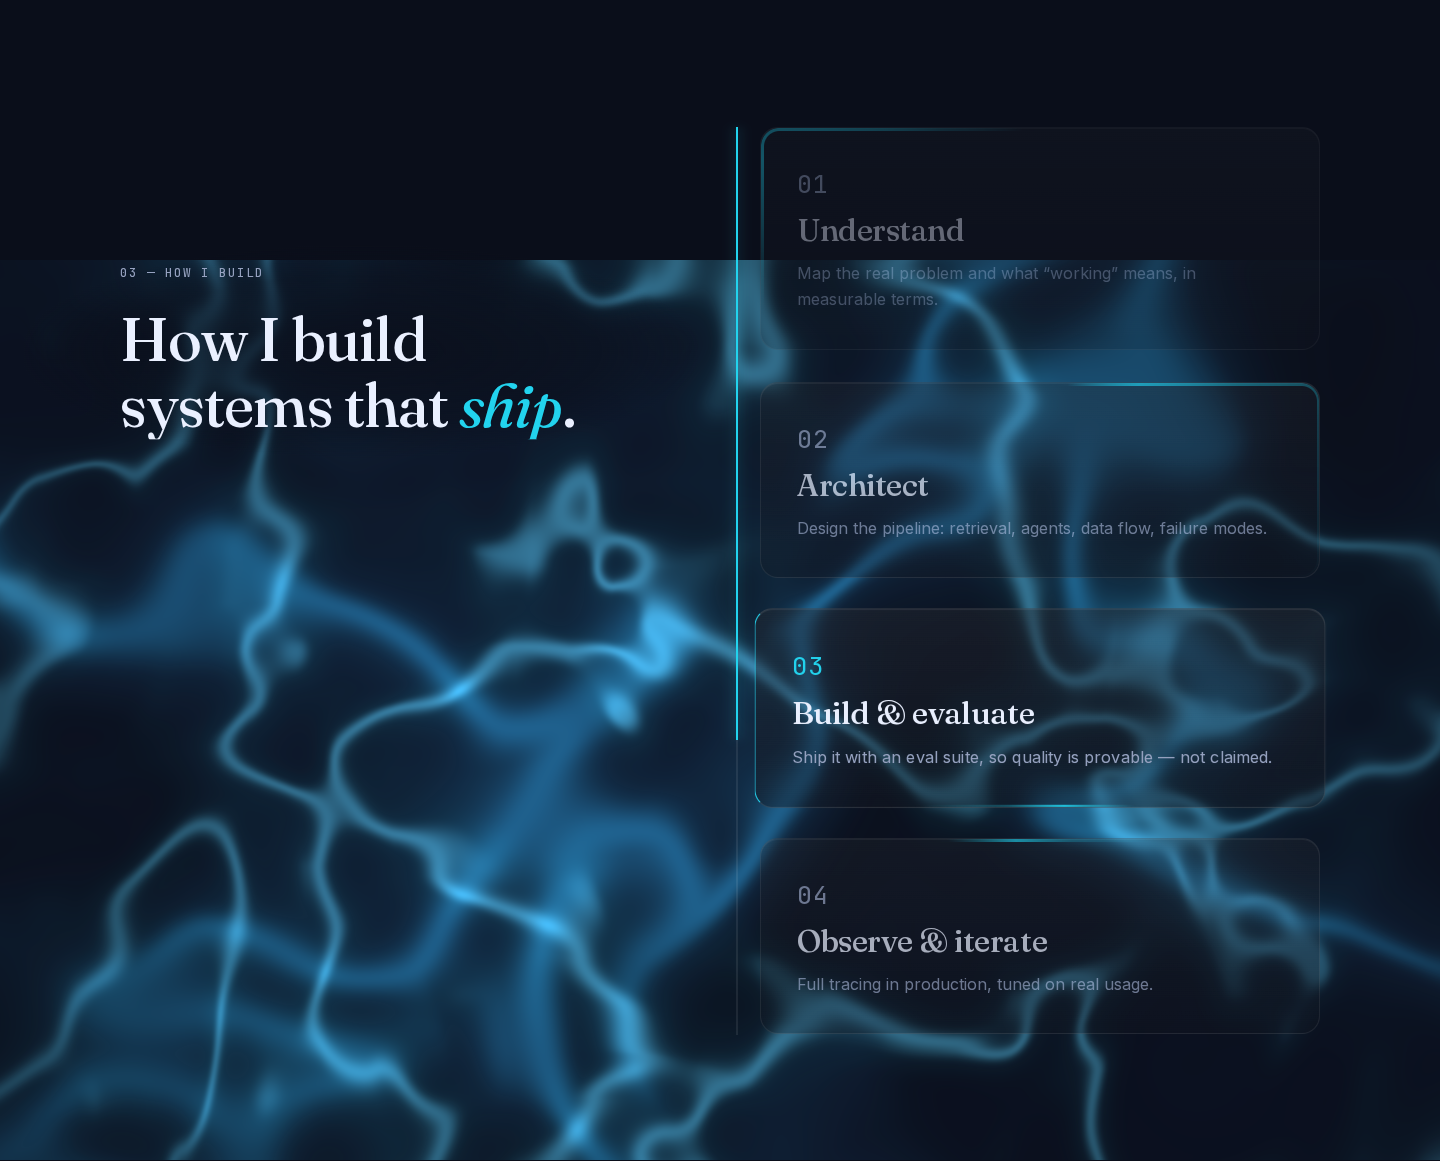
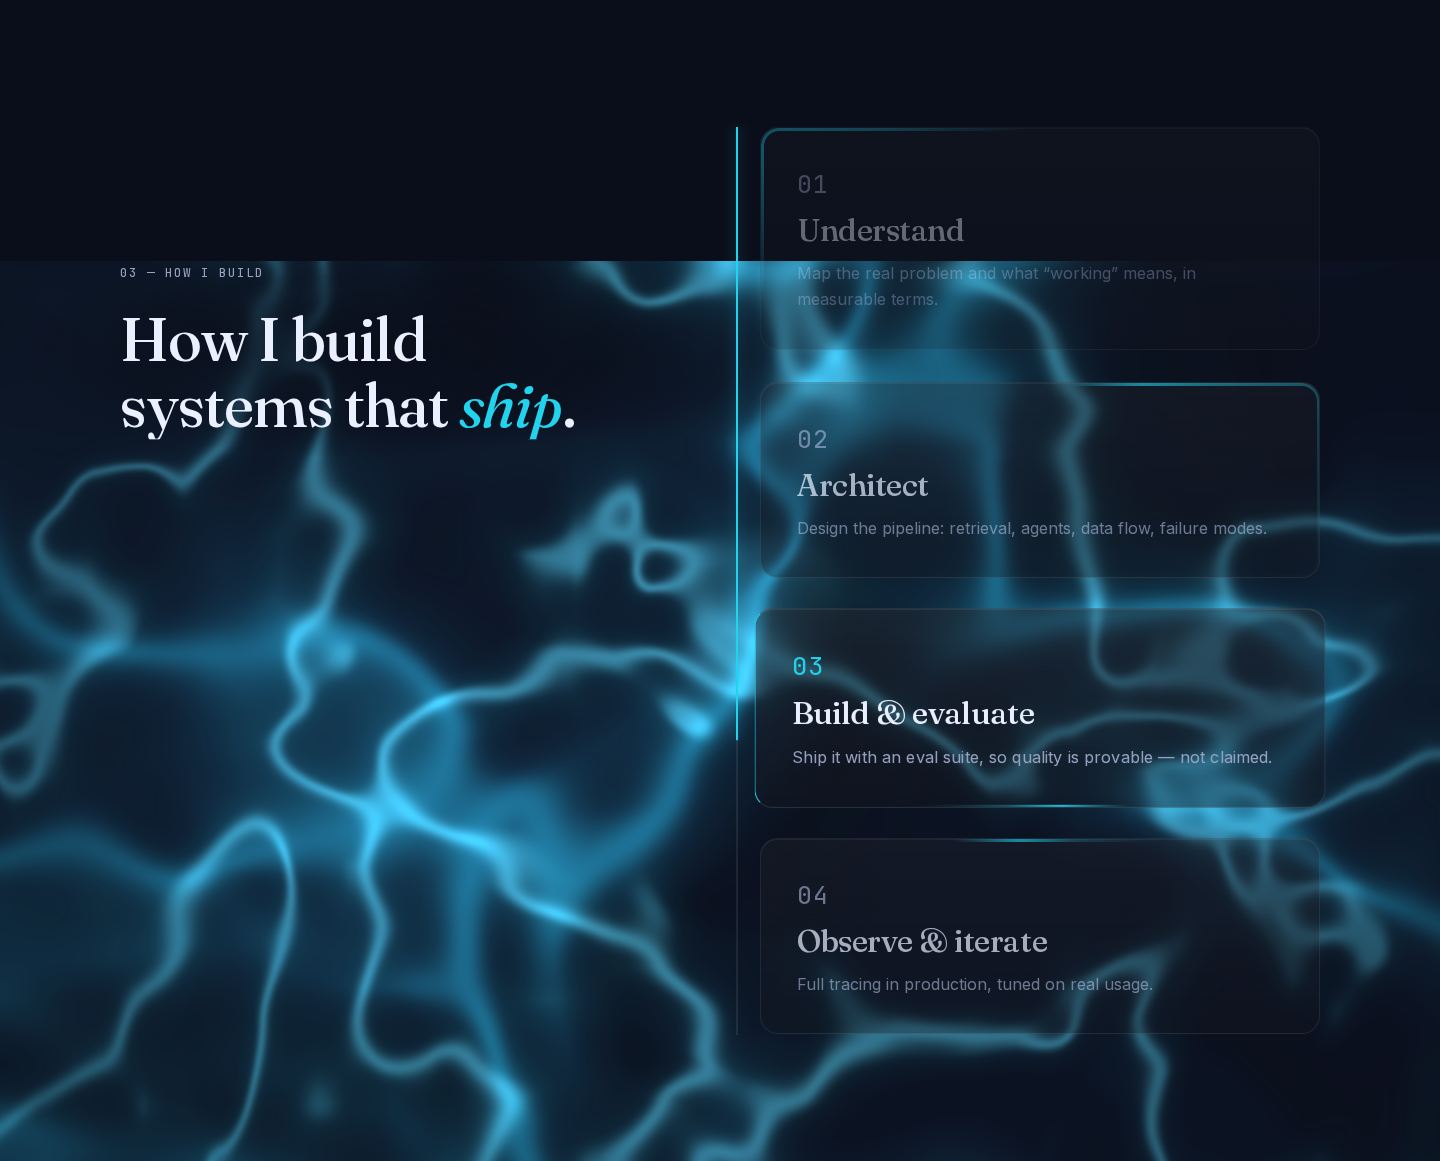
feat(portfolio-dark): content-reactive ferrofluid — events drive the shader
The fluid now REACTS to content on top of its per-section scroll mood,
via a tiny module-level bus (fluidBus) that components pulse and the
shader reads each frame as a transient boost, decayed toward rest (0.92
/frame ≈ 0.4s settle). One shader, no particles, no 2nd system — perf
work preserved (30fps cap, hidden-pause, faked glass all intact).

Reactive sources (all verified via the boost values over time):
- PROOF: the count-up drives the pulse — its gsap onUpdate pulses cyan +
  brightness + energy proportional to count progress, so the fluid
  brightens in sync as the numbers tick and settles when they stop
  (measured cyan boost 0 → 0.55 peak → 0.39 settling).
- WORK: each card's onEnter nudges turbulence + brightness with a
  direction that follows the card's slide side — moving between systems
  (turb spike 0.34 → decays).
- HOW I BUILD: a step activating sends a directional pulse (sign follows
  scroll direction) through the warp (dir 0.46 → 0.7 on step change).
- HERO / STACK / ABOUT / CONTACT: carried by the existing eased
  per-section moods (calm → churn → warm settle → bright cyan).

New uDir uniform advects the domain warp for the directional pulses.
Base moods still ease continuously and reverse cleanly on scroll-up.
prefers-reduced-motion: static rich frame, no bus reads, no reactive
morph (verified 0 errors, debug hook removed).

Verified: reactivity measured on all three sources, all 7 sections
[…]

diff --git a/src/components/portfolio-dark/Ferrofluid.tsx b/src/components/portfolio-dark/Ferrofluid.tsx
@@ -1,6 +1,7 @@
 "use client";
 
 import { useEffect, useRef } from "react";
+import { fluidBus } from "@/lib/fluidBus";
 
 /**
  * Ferrofluid ambient background — THE one site-wide layer behind all
@@ -31,6 +32,7 @@ uniform float uCyan;   /* cyan mix in the tendrils (glow warmth) */
 uniform float uTurb;   /* domain-warp amount — churn / chaos */
 uniform float uWarm;   /* shift toward indigo for the About settle */
 uniform float uBright; /* overall intensity */
+uniform float uDir;    /* transient directional advection (event pulse) */
 
 float hash(vec2 p) { return fract(sin(dot(p, vec2(127.1, 311.7))) * 43758.5453); }
 
@@ -63,8 +65,10 @@ void main() {
 
   float t = uTime * 0.05; // continuous, slow (flow SPEED eased in JS via uTime)
 
-  // domain warp — the "magnetic" flow; uTurb drives churn per section
+  // domain warp — the "magnetic" flow; uTurb drives churn per section,
+  // uDir sends a transient directional shove (How-I-Build step activation)
   vec2 warp = vec2(fbm(p + vec2(0.0, 3.7), t), fbm(p + vec2(5.2, 1.3), t * 0.85)) * uTurb;
+  warp += uDir * vec2(0.6, -0.35);
 
   vec3 blue = vec3(0.231, 0.51, 0.965);   /* --accent-2 #3B82F6 */
   vec3 cyan = vec3(0.133, 0.827, 0.933);  /* --accent   #22D3EE */
@@ -174,6 +178,7 @@ export default function Ferrofluid() {
     const uTurb = gl.getUniformLocation(prog, "uTurb");
     const uWarm = gl.getUniformLocation(prog, "uWarm");
     const uBright = gl.getUniformLocation(prog, "uBright");
+    const uDir = gl.getUniformLocation(prog, "uDir");
 
     // Mobile matches desktop richness: full 3-tier detail + near-equal
     // intensity. Affordable because the phone canvas has ~4x fewer pixels
@@ -267,12 +272,19 @@ export default function Ferrofluid() {
       const breath = 0.12 * Math.sin(timeSec * 0.13) + 0.06 * Math.sin(timeSec * 0.041);
       phase += dt * mood[0] * (1.0 + breath);
 
+      // event boosts (count-up / card-enter / step-activate) ride ON TOP of
+      // the base mood, then decay toward rest so each pulse spikes + settles
+      const boost = fluidBus.read();
+      // flow speed also gets a small lift from turbulence pulses (feels alive)
+      phase += dt * boost.turb * 0.35;
       gl.uniform1f(uScroll, scrollCurrent);
-      gl.uniform1f(uCyan, mood[1]);
-      gl.uniform1f(uTurb, mood[2]);
+      gl.uniform1f(uCyan, Math.min(1.5, mood[1] + boost.cyan));
+      gl.uniform1f(uTurb, mood[2] + boost.turb);
       gl.uniform1f(uWarm, mood[3]);
-      gl.uniform1f(uBright, mood[4]);
+      gl.uniform1f(uBright, mood[4] + boost.bright);
+      gl.uniform1f(uDir, boost.dir);
       gl.uniform1f(uTime, phase);
+      fluidBus.decay(0.92); // ~0.4s settle at 30fps
       gl.clearColor(0, 0, 0, 0);
       gl.clear(gl.COLOR_BUFFER_BIT);
       gl.drawArrays(gl.TRIANGLES, 0, 3);
@@ -286,6 +298,7 @@ export default function Ferrofluid() {
       gl.uniform1f(uTurb, 1.0);
       gl.uniform1f(uWarm, 0.0);
       gl.uniform1f(uBright, 1.1);
+      gl.uniform1f(uDir, 0.0);
       gl.uniform1f(uTime, 40);
       gl.clearColor(0, 0, 0, 0);
       gl.clear(gl.COLOR_BUFFER_BIT);

diff --git a/src/lib/fluidBus.ts b/src/lib/fluidBus.ts
@@ -1,0 +1,42 @@
+/**
+ * fluidBus — a tiny decoupled channel so content can make the ferrofluid
+ * REACT to events (count-ups, card entrances, step activations) on top of
+ * its per-section scroll mood. Ferrofluid reads these transient boosts each
+ * frame, adds them over the base mood, then decays them toward 0 — so a
+ * pulse spikes and settles. Module-level (no DOM events / no React re-render)
+ * to stay off the render path and within the perf budget.
+ *
+ * Semantics: pulse() sets each channel to the MAX of its current and the new
+ * value. A one-off nudge therefore spikes then decays; a repeated call during
+ * an animation (e.g. count-up onUpdate) keeps the channel topped up so the
+ * fluid RAMPS with the animation and settles when it stops.
+ */
+export type FluidPulse = {
+  cyan?: number; // extra cyan intensity
+  turb?: number; // extra turbulence / churn
+  bright?: number; // extra brightness
+  dir?: number; // directional advection impulse (signed)
+};
+
+const boost = { cyan: 0, turb: 0, bright: 0, dir: 0 };
+
+export const fluidBus = {
+  pulse(p: FluidPulse) {
+    if (p.cyan) boost.cyan = Math.max(boost.cyan, p.cyan);
+    if (p.turb) boost.turb = Math.max(boost.turb, p.turb);
+    if (p.bright) boost.bright = Math.max(boost.bright, p.bright);
+    // direction keeps its sign, largest magnitude wins
+    if (p.dir && Math.abs(p.dir) > Math.abs(boost.dir)) boost.dir = p.dir;
+  },
+  /** Ferrofluid reads this every frame. */
+  read() {
+    return boost;
+  },
+  /** Ferrofluid decays toward rest after reading (f in [0,1) per frame). */
+  decay(f: number) {
+    boost.cyan *= f;
+    boost.turb *= f;
+    boost.bright *= f;
+    boost.dir *= f;
+  },
+};

diff --git a/src/components/portfolio-dark/DarkHowIBuild.tsx b/src/components/portfolio-dark/DarkHowIBuild.tsx
@@ -3,6 +3,7 @@
 import { useRef } from "react";
 import Reveal from "@/components/portfolio/Reveal";
 import { gsap, ScrollTrigger, useGSAP, EASE } from "@/lib/gsap";
+import { fluidBus } from "@/lib/fluidBus";
 
 const STEPS = [
   {
@@ -62,6 +63,11 @@ export default function DarkHowIBuild() {
             panel.style.opacity = Math.max(0.4, 1 - dn * 0.6).toFixed(3);
           });
           if (best !== active) {
+            // a step just activated — send a directional pulse through the
+            // fluid (sign follows scroll direction: forward vs back)
+            if (active !== -1 && best !== -1) {
+              fluidBus.pulse({ dir: best > active ? 0.7 : -0.7, turb: 0.25, cyan: 0.2 });
+            }
             active = best;
             panels.forEach((panel, i) => panel.classList.toggle("is-active", i === best));
           }

diff --git a/src/components/portfolio-dark/DarkWork.tsx b/src/components/portfolio-dark/DarkWork.tsx
@@ -3,6 +3,7 @@
 import { useEffect, useRef, useState } from "react";
 import Reveal from "@/components/portfolio/Reveal";
 import { gsap, ScrollTrigger, useGSAP, EASE, prefersReducedMotion } from "@/lib/gsap";
+import { fluidBus } from "@/lib/fluidBus";
 
 type CaseStudy = {
   index: string;
@@ -181,7 +182,12 @@ export default function DarkWork() {
             trigger: card,
             start: "clamp(top 80%)",
             once: true,
-            onEnter: () => tl.play(),
+            onEnter: () => {
+              tl.play();
+              // moving between systems: a brief energy/turbulence nudge that
+              // settles — direction alternates with the card's slide side
+              fluidBus.pulse({ turb: 0.4, bright: 0.14, dir: i % 2 === 0 ? -0.5 : 0.5 });
+            },
           });
         });
       });

diff --git a/src/components/portfolio-dark/DarkProof.tsx b/src/components/portfolio-dark/DarkProof.tsx
@@ -3,6 +3,7 @@
 import { useRef } from "react";
 import { gsap, EASE, SplitText, useGSAP } from "@/lib/gsap";
 import Reveal from "@/components/portfolio/Reveal";
+import { fluidBus } from "@/lib/fluidBus";
 
 type Metric = {
   value: string; // final display value, also the SSR/reduced-motion state
@@ -98,6 +99,11 @@ export default function DarkProof() {
       ease: EASE,
       onUpdate: () => {
         el.textContent = state.v.toFixed(decimals);
+        // pulse the ferrofluid IN SYNC with the tick-up: cyan + energy rise
+        // with count progress, then settle once the numbers stop (the bus
+        // decays after the last onUpdate).
+        const prog = target > 0 ? state.v / target : 1;
+        fluidBus.pulse({ cyan: 0.55 * prog, bright: 0.22 * prog, turb: 0.18 * prog });
       },
     });
   };
